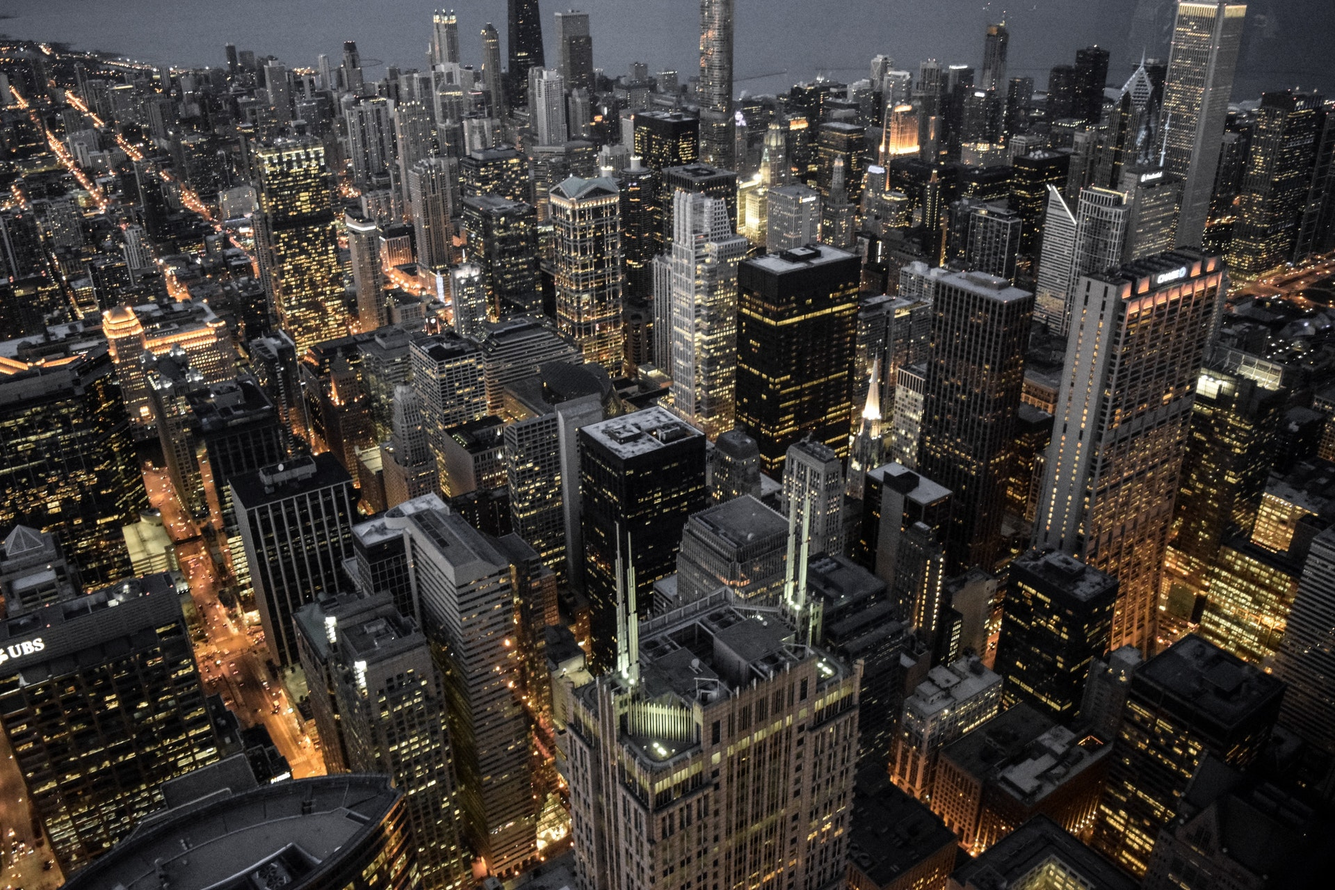
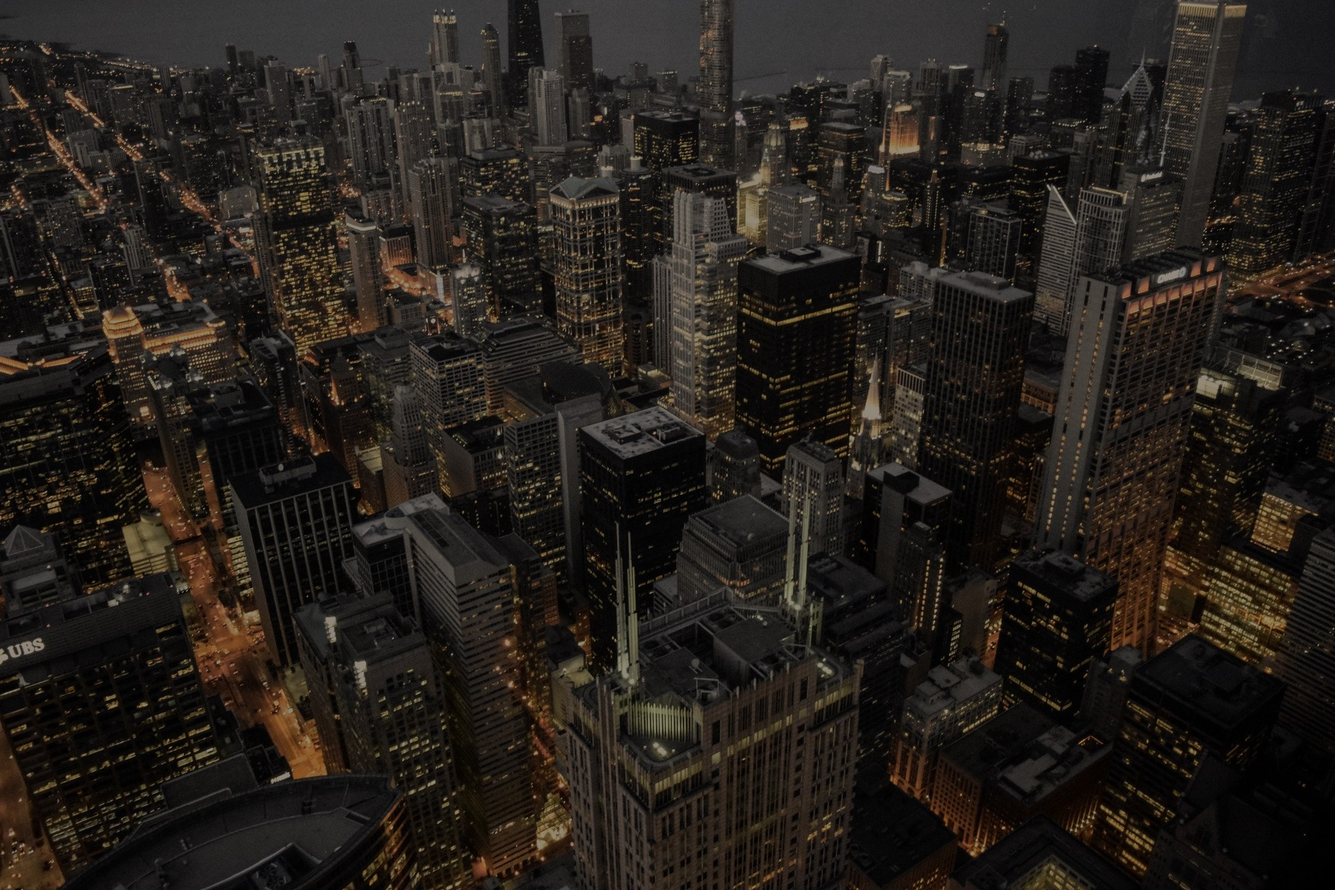
navbar and showcase comple

diff --git a/css/style.css b/css/style.css
@@ -1,0 +1,115 @@
+
+
+/* google font roboto */
+@import url('https://fonts.googleapis.com/css2?family=Roboto:ital,wght@0,500;1,500&display=swap');
+
+
+*{
+    margin: 0;
+    padding: 0;
+    box-sizing: border-box;
+}
+
+body
+{
+    font-family: 'Roboto', sans-serif;
+    line-height: 1.4rem;
+}
+
+a{ text-decoration: none;}
+
+p{
+    margin: 0.75rem 0;   /* 12px */
+}
+
+/* most need code */
+.text-primary{
+    color: rgb(51, 170, 35);
+}
+.heading-1
+{
+    font-size: 4rem;
+    margin-bottom:2rem ;
+    line-height: 1.5rem;
+}
+
+.paragraph
+{
+    font-size: 1.2rem;
+    margin-bottom: 2rem;
+}
+
+ .btn
+{
+    display: inline-block;
+    color: white;
+    background: rgb(51, 170, 35);
+    padding: .5rem 2rem;
+    border: none;
+    border-radius:10px ;
+
+} 
+
+.btn:hover
+{
+    background: rgb(21, 87, 12) ;
+}
+/* nav-bar */
+
+#navbar{
+    
+    display: flex;
+    justify-content: space-between ;
+    position: sticky;
+    padding: 1rem;
+    z-index: 1;
+    /* because of position sticky we use z -index and value will be alway 1 */
+    background: rgb(39, 38, 38);
+    color: white;
+
+}
+
+#navbar ul
+{
+    display: flex;
+    align-items: center;
+    list-style: none;
+}
+
+#navbar ul li a
+{
+    color: white; 
+    padding: .75rem; 
+    margin: 0 0.25rem;/* 4px */
+
+}
+
+#navbar ul li a:hover
+{
+    background: rgb(51, 170, 35);;
+    border-radius: .30rem;
+}
+
+
+/* heading  */
+/* showcase */
+
+#showcase
+{
+    background: url(../img/showcase.jpg) no-repeat center center /cover;
+    height: 100vh;
+    color: white;
+}
+
+#showcase .showcase-content
+{
+    display:flex ;
+    flex-direction: column;
+    text-align: center;
+    justify-content: center;
+    height: 100%;
+    /* showcase has a height but showcase-content dont have so we have to add the height */
+    align-items: center;
+    padding: 0 2rem;
+    
+}

diff --git a/index.html b/index.html
@@ -14,7 +14,41 @@
    
     <title>Ledger | Modern Accounting & Investment </title>
 </head>
-<body>
-    
+<body id="home">
+    <!-- nav bar -->
+    <nav id="navbar">
+       <h1 class="logo">
+           <span class="text-primary">
+               <i class="fas fa-book-open"></i>
+               Edge
+           </span>
+           Ledger
+       </h1>  
+
+       <ul>
+           <li><a href="#home"> Home</a></li>
+           <li><a href="#what"> What</a></li>
+           <li><a href="#who"> Who</a></li>
+           <li><a href="#contract"> Contract</a></li>
+       </ul>
+
+    </nav>
+
+<!-- header:show case content  -->
+
+    <header id="showcase">
+        <div class="showcase-content">
+
+            <h1 class="heading-1">The Sky Is The Limit</h1>
+
+            <p class="paragraph">Lorem, ipsum dolor sit amet consectetur adipisicing elit. Rem pturi saepe dolorem assumenda, dolore um ullam quam voluptatem officia?</p>
+
+            <!--#what  link -->
+            <a href="#what" class="btn">Read More</a>
+
+        </div>
+
+    </header>
+
 </body>
 </html>
